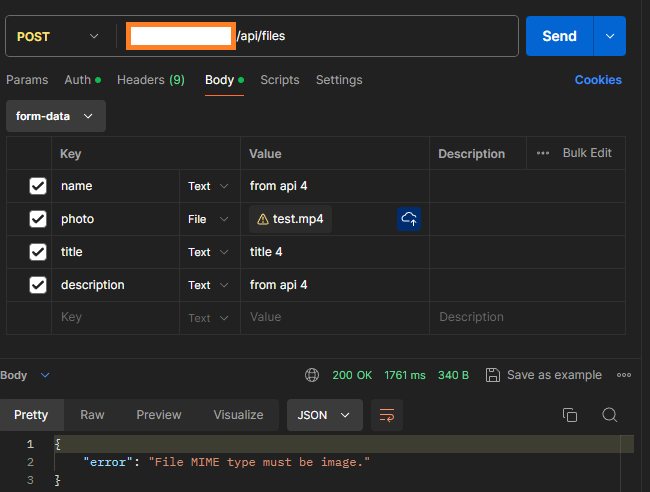
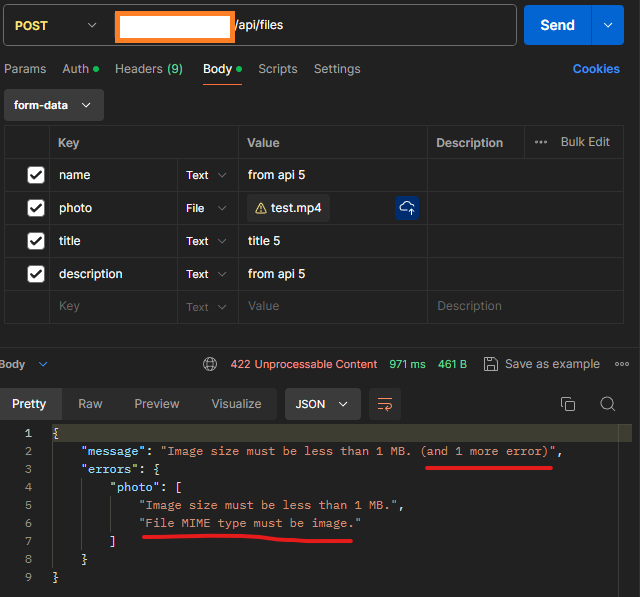
readme update

diff --git a/README.md b/README.md
@@ -29,8 +29,14 @@
 | `404` | `Not found`               | Record does not exist                    |
 | `405` | `Method not allowed`      | Request to wrong endpoint                |
 | `422` | `Unprocessable content`   | Request is missing specified parameters  |
+| `429` | `Too many requests`   | Maximum number of requests in given time frame is reached  |
 
+## Request limits
 
+`GET` Requests are limited to 10 per minute.
+`POST` Requests are limited to 5 per minute.
+
+For more details check in the `Errors` section.
 
 ## Errors
 
@@ -67,7 +73,45 @@ When errors occur the consumer will get a JSON payload verifying that an error o
 
 ```
 {
-    "error": "File MIME type must be image."
+    "message": "File MIME type must be image.",
+    "errors": {
+        "photo": [
+            "File MIME type must be image."
+        ]
+    }
+}
+```
+
+### Uploading image that is too big
+
+![File is too big.](public/readme_images/file_size_error.png)
+
+```
+{
+    "message": "Image size must be less than 1 MB.",
+    "errors": {
+        "photo": [
+            "Image size must be less than 1 MB."
+        ]
+    }
+}
+```
+
+### Too many GET/POST requests 
+
+![Too many GET requests.](public/readme_images/get_request_limit.png)
+
+```
+{
+    "error": "Number of GET requests per minute is limited to 10."
+}
+```
+
+![Too many POST requests.](public/readme_images/post_request_limit.png)
+
+```
+{
+    "error": "Number of POST requests per minute is limited to 5."
 }
 ```
 
